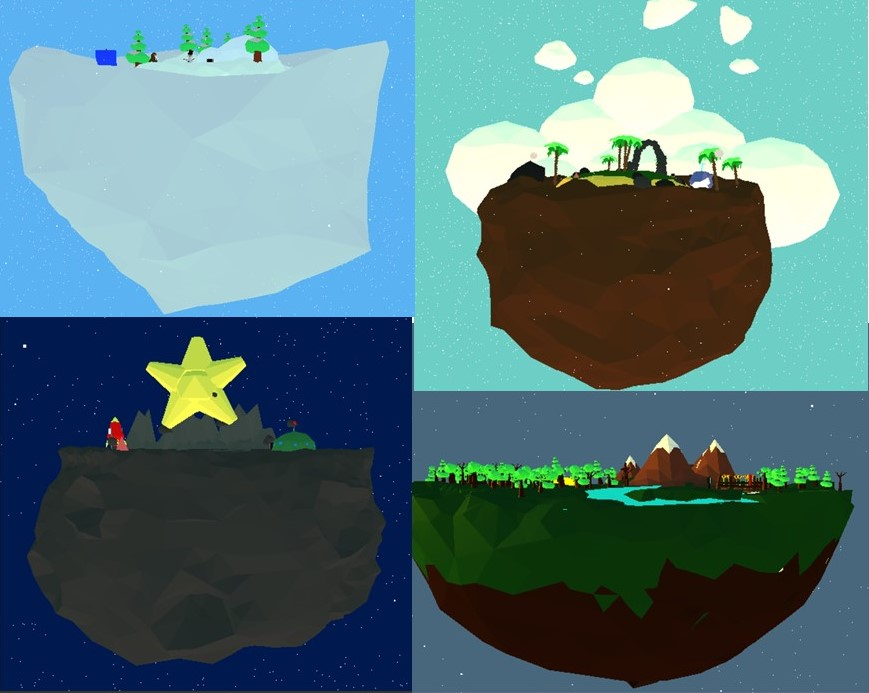
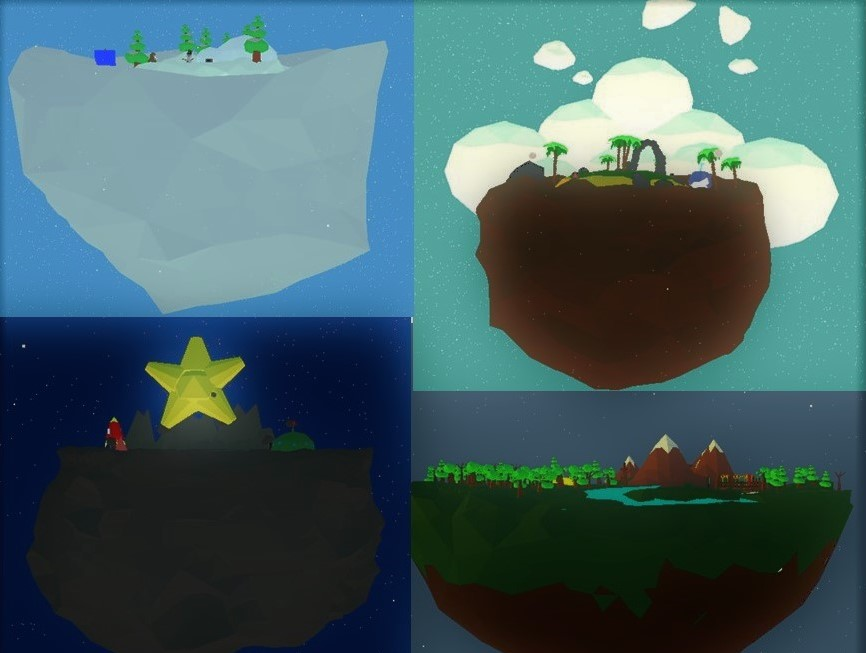
worlds

diff --git a/index.html b/index.html
@@ -43,13 +43,21 @@
     }
   </style>
   <body>
-    <div style = "background-image: url('./Mainbg.jpg'); background-attachment: fixed; background-size: 100% 100%;">
+    <div style = "background-image: url('./Mainbg.jpg'); background-attachment: fixed; background-size: 40% 60%;">
     <h1>hARMonic</h1>
     <p>Get started on learning ARM!</p>
     <p>Explore different worlds and click on secret items to unlock lesson plans.</p>
     <div class="vertical-center">
       <button class="button button1" id="start">Start Game</button>
     </div>
+    <br>
+    <br>
+    <br>
+    <br>
+    <br>
+    <br>
+    <br>
+    <br>
     <br>
     <br>
     <br>

diff --git a/world1.html b/world1.html
@@ -235,7 +235,7 @@
         const cube = new THREE.Mesh( box, materials );
         scene.add( cube );
         cube.position.x = -16.6;
-        cube.position.y = 10;
+        cube.position.y = 12;
         cube.position.z = 0.7;
 
         //knot
